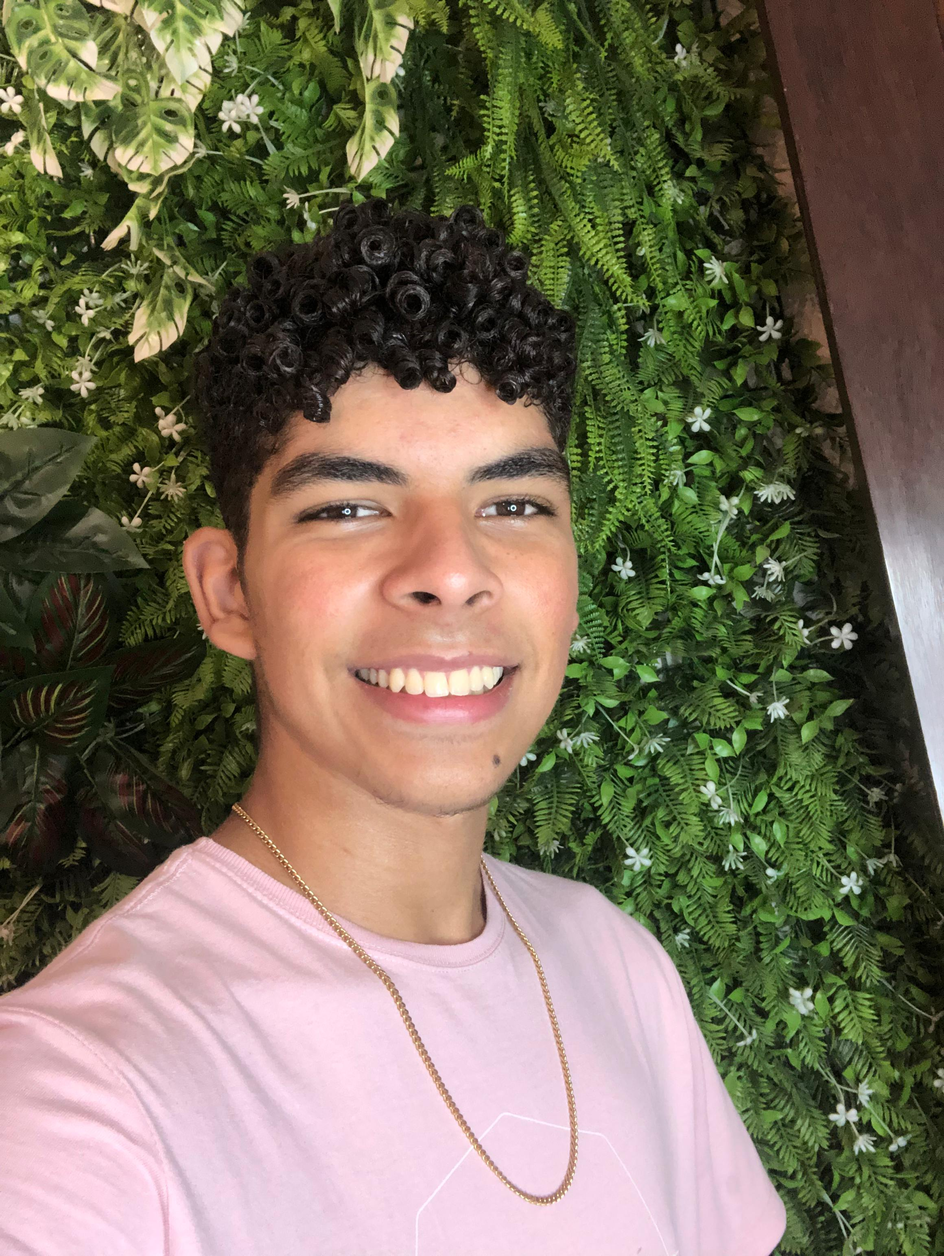
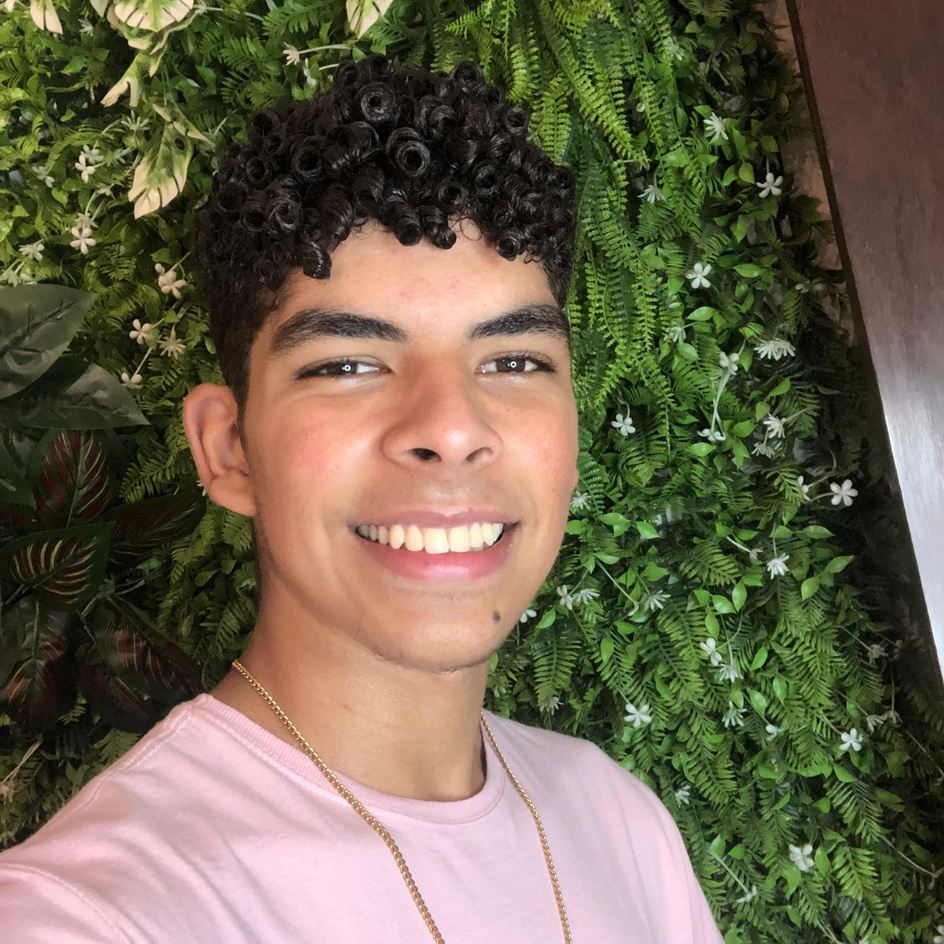
Foto Nova

diff --git a/index.html b/index.html
@@ -56,7 +56,7 @@
         <main class="home">
             <h2 class="text-white">Sobre Mim</h2>
             <div class="sobre">
-                <img src="./media/img/fotoNova.png" alt="foto">
+                <img src="./media/img/fotoNova.jpeg" alt="foto">
                 <p style="font-size: medium;">Opa, tudo bem?<br>Meu nome é Pedro Henrique, fiz esse site com o intuito de guardar meus projetos para fácil acesso... <br>
                 mas falando nisso, uma coisa que eu amo é tecnologia! seja na parte de Hardware ou Software, eu sempre vou ter interesse nessa área.
                 claro que não sou profissional nisso, mas busco aprender muito... <br><br>
